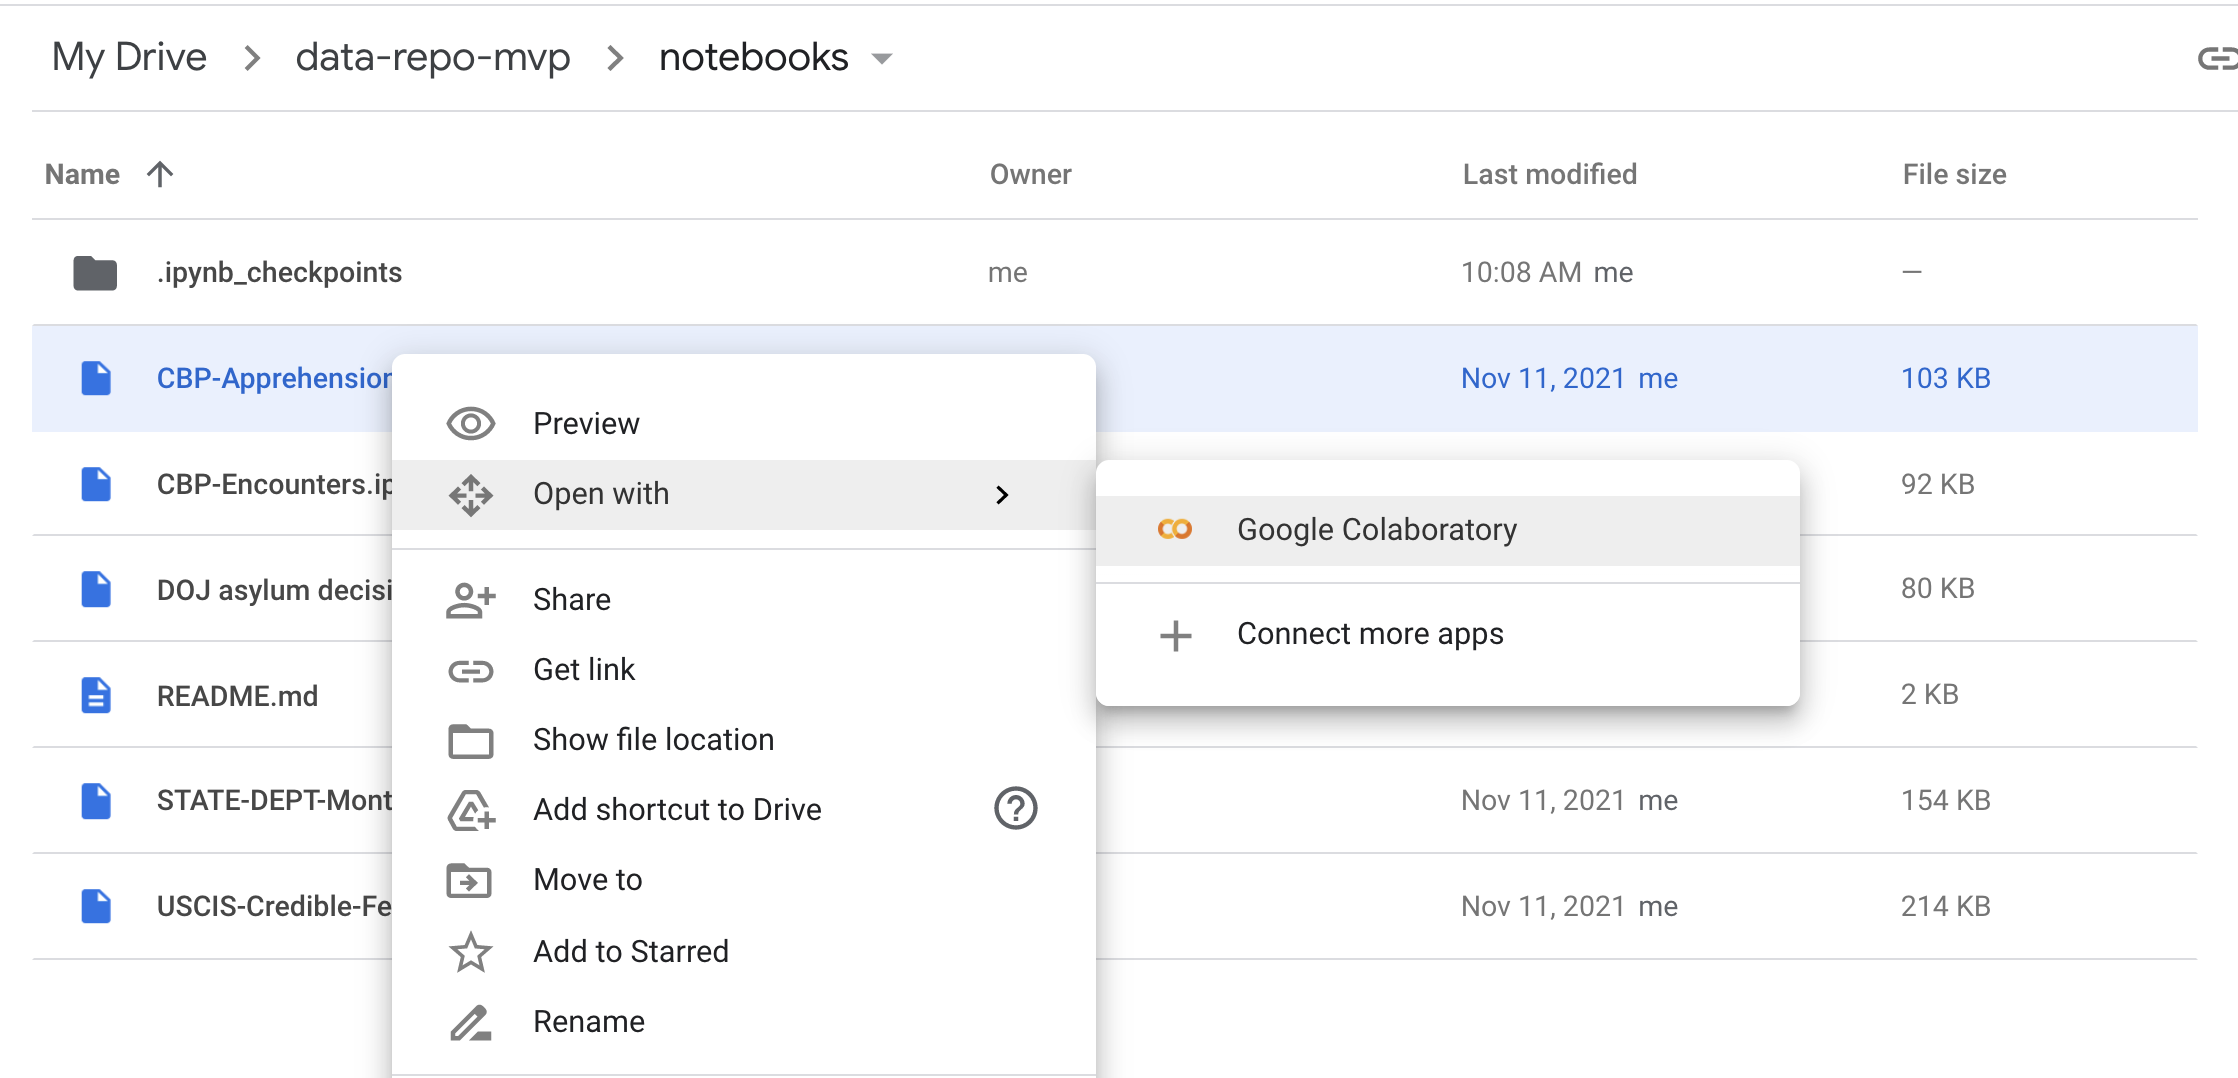
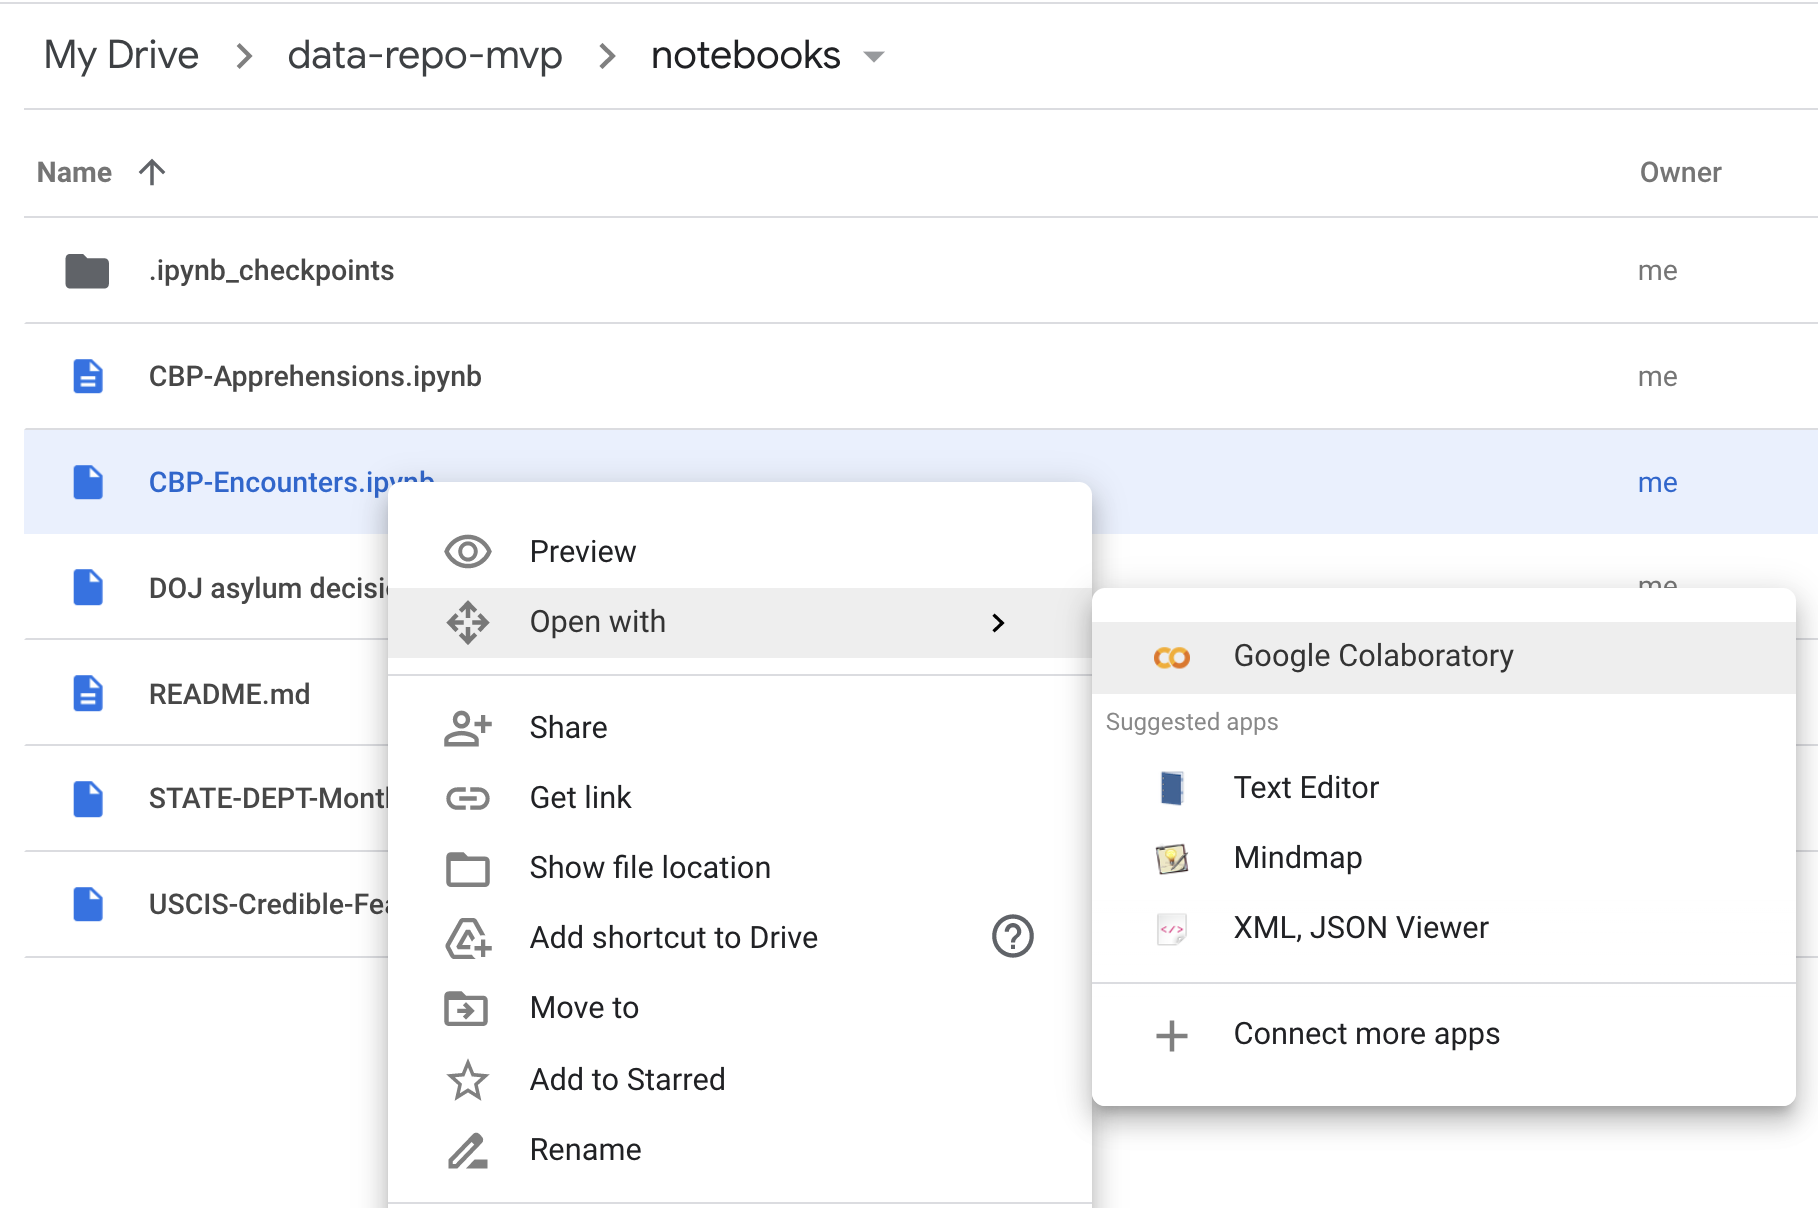
wip docs

diff --git a/README.md b/README.md
@@ -29,30 +29,30 @@ Fantastic ! We have used code notebooks (called Jupyter Notebooks) to write Pyth
 #### **If you are new to Python and Jupyter Notebooks** else [go here](#if-you-are-a-coder-and-comfortable-with-python) <br>
 This code can be run in a number of different ways but we recommend utilizing google colab notebooks initially to review and run this code. 
 
-    Note: Please keep this browser window open on the side to follow these directions and see additional contextual information regarding the structure of the repo and information on the datasets and code included.
+
+Note: Please keep this browser window open on the side to follow these directions and see additional contextual information regarding the structure of the repo and information on the datasets and code included.
 
 * Step 1 - Get Repo in Gdrive: 
     * Download this google [folder](https://drive.google.com/drive/folders/1lw3NcE8jEQxgZISVknKUSpJKcFc-6Ruq?usp=sharing) as a zip, this may take 5-10 minutes. ![Download data-repo-mvp as zip](./misc/images/gdrive_download_repo.png)
-    * Unzip the downloaded folder and then place it in a Google Drive folder. 
+    * Unzip the downloaded folder and then place it in a Google Drive folder you have full access to.
 * Step 2 - Notebooks: 
     * Now that the folder is in Google Drive, you can use the Google Colab tool. Colab is a cloud based coding environment where you can run Python code in the browser using Google's cloud computers. 
-    * Open the **Notebooks** folder  to see the notebooks currently available in this repo. ![Download data-repo-mvp as zip](./misc/images/gdrive_notebooks_folder.png)
+    * Open the **notebooks** folder  to see the notebooks currently available in this repo. ![Download data-repo-mvp as zip](./misc/images/gdrive_notebooks_folder.png)
 * Step 3 - Open Notebook in Colab: 
-    * Now we will open a notebook in Colab. Right click on the **CBP-Apprehensions.ipynb** and select Open with >> Google Colaboratory. 
+    * Now we will open a notebook in Colab. Right click on the **CBP-Encounters.ipynb** and select <br>`Open with >> Google Colaboratory`. 
    ![Download data-repo-mvp as zip](./misc/images/open_with_colab.png)
 * Step 4 - The colab notebook 
-    * Now that the colab notebook has opened you have a working python code environment running right from your browser. This is much easier than managing a full python installation. A notebook is a collection of "cells" or areas that you can use to execute code. Each cell is a single block of code, or other information (such as headings, text information etc.). To run a cell you can just click the small play button to the far left of any cell.
+    * Now that the colab notebook has opened you have a working python code environment running right from your browser. This is much easier than managing a full python installation. A notebook is a collection of "cells" or areas that you can use to execute code. Each cell is a single block of code, or other information (such as headings, text information, etc.). To run a cell you can just click the small play button to the far left of any cell.
 
         <img src="./misc/images/run_a_cell.png" width="330" height="200">
 
     * You can either click each play button in sequence, or you can use the keyboard shortcut of SHIFT + ENTER to execute them as well. 
 * Step 5 
-    * The last step before you can full run the code in the notebook is to mount your Google Drive into the colab environment. When you open a `.ipynb` file in colab it opens it in Colab Notebooks section of your drive and does not automatically mount the rest of your information. Since we need to be able to save files to the drive (like downloading pdfs) and then open them to do processing we must mount the drive. You can do this by executing the following cell
+    * The last step before you can fully run the code in the notebook is to mount your Google Drive into the colab environment. When you open a `.ipynb` file in colab it opens it in the Colab Notebooks section of your drive and does not automatically mount the rest of your information. Since we need to be able to save files to the drive (like downloading pdfs) and then open them to do processing we must mount the drive. You can do this by executing the following cell
 
         <img src="./misc/images/mount_gdrive.png" width="330" height="100">
 
     * This should launch a window here you can authorize colab to access your google drive, or create a link where you authorize the drive and then paste an authorization code into an area below the cell. 
-
    *  Once authorized you should be able to see you drive files in the file explorer to the left of the screen by clicking on the small folder icon. Click on MyDrive (or any other name it might be), then navigate to where you saved the `data-repo-mvp` folder, right click and select **Copy path** to that folder. 
 
         <img src="./misc/images/copy_path.png" width="330" height="230">
